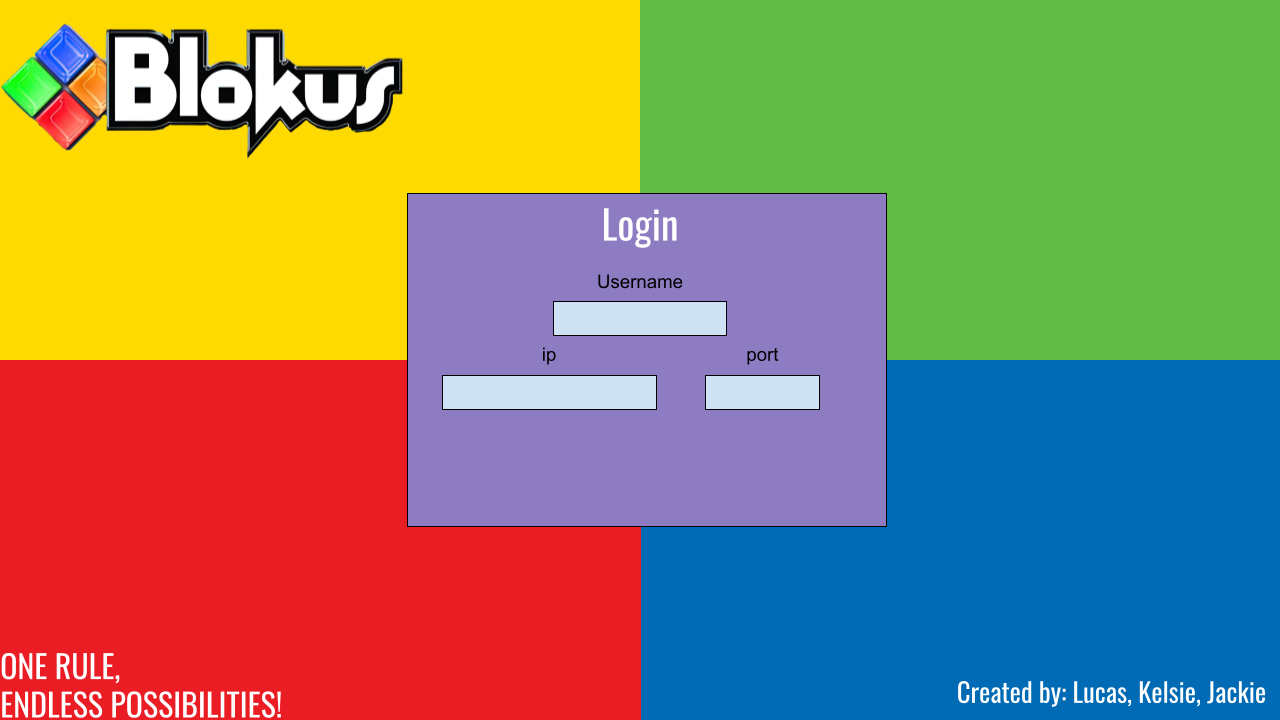
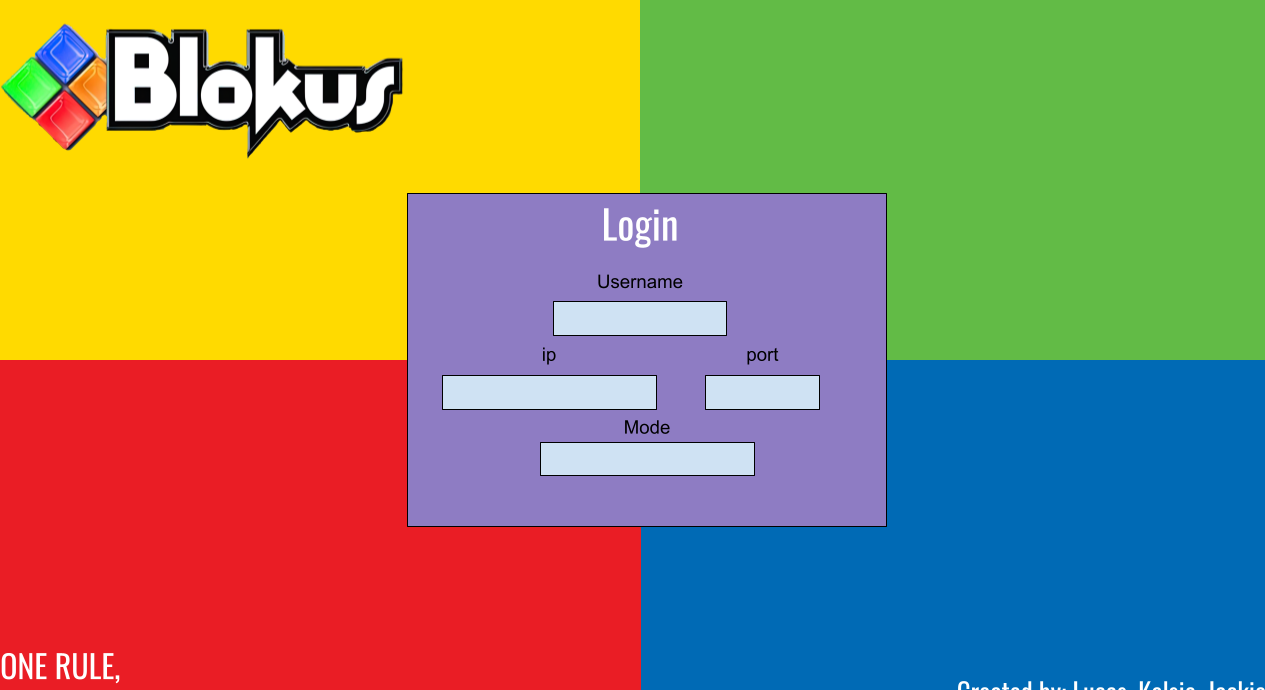
login screen cont

diff --git a/Blockus.java b/Blockus.java
@@ -11,6 +11,9 @@ public class Blockus implements ActionListener, MouseListener, KeyListener{
 	JTextField usernameField = new JTextField();
 	JTextField ipField = new JTextField();
 	JTextField portField = new JTextField();
+	JRadioButton serverRButton = new JRadioButton("Server");
+	JRadioButton clientRButton = new JRadioButton("Client");
+	ButtonGroup buttonGroup = new ButtonGroup();
 	BlockusPanel thePanel = new BlockusPanel();
 	BlockusMenuPanel theMenuPanel = new BlockusMenuPanel();
 	BlockusLoginPanel theLoginPanel = new BlockusLoginPanel();
@@ -92,7 +95,41 @@ public class Blockus implements ActionListener, MouseListener, KeyListener{
 		quitButton.setLocation(170, 555);
 		quitButton.addActionListener(this);
 		theMenuPanel.add(quitButton);
-
+		
+		//username Textfield
+		usernameField = new JTextField();
+		usernameField.setSize(174, 35);
+		usernameField.setLocation(553, 301);
+		theLoginPanel.add(usernameField);
+		
+		//ip Textfield
+		ipField = new JTextField();
+		ipField.setSize(214, 35);
+		ipField.setLocation(442, 375);
+		theLoginPanel.add(ipField);
+		
+		//port Textfield
+		portField = new JTextField();
+		portField.setSize(114, 35);
+		portField.setLocation(705, 375);
+		theLoginPanel.add(portField);
+		
+		//ServerMode RadioButton
+		serverRButton.setSize(100,25);
+		serverRButton.setLocation(545, 445);
+		serverRButton.setOpaque(false);
+		theLoginPanel.add(serverRButton);
+		
+		//ClientMode RadioButton
+		clientRButton.setSize(100,25);
+		clientRButton.setLocation(680,445);
+		clientRButton.setOpaque(false);
+		theLoginPanel.add(clientRButton);
+		
+		//buttonGroups
+		buttonGroup.add(clientRButton);
+		buttonGroup.add(serverRButton);
+		
 		theFrame.pack();
 		theFrame.setVisible(true);
 		theTimer.start();
